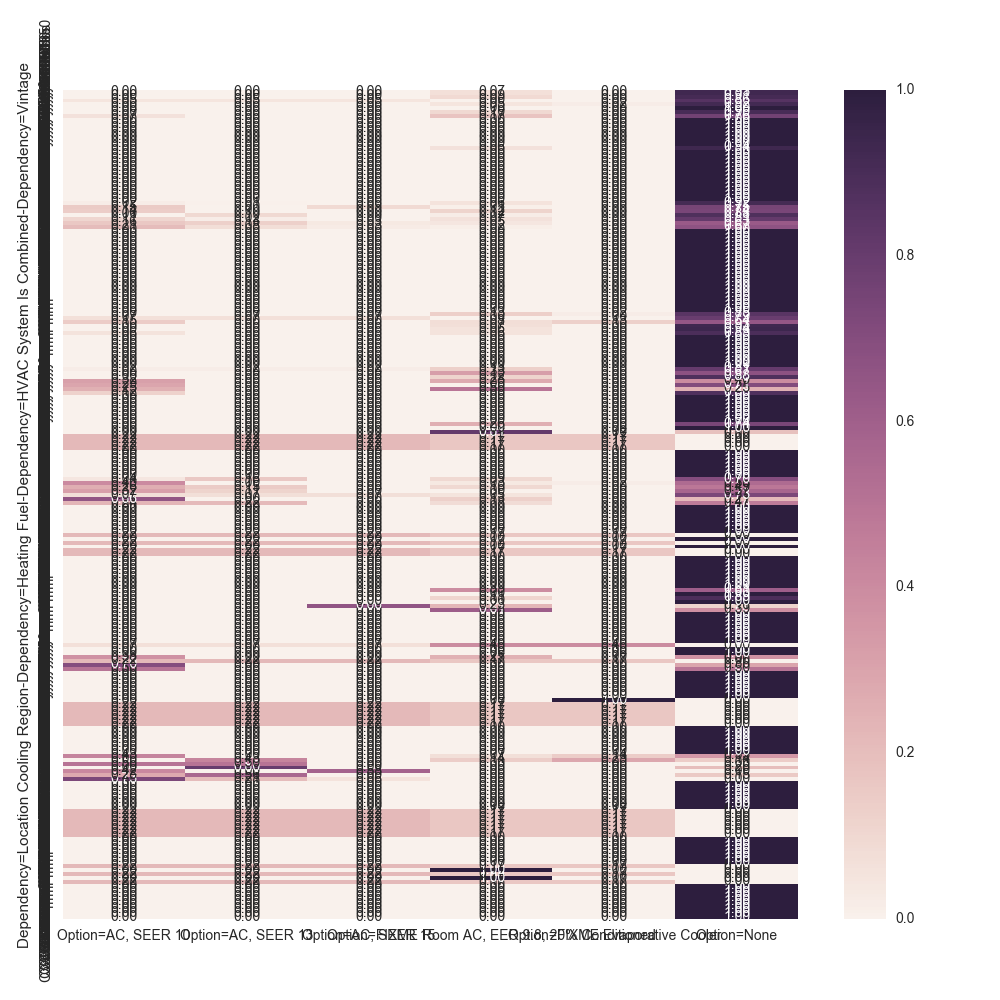
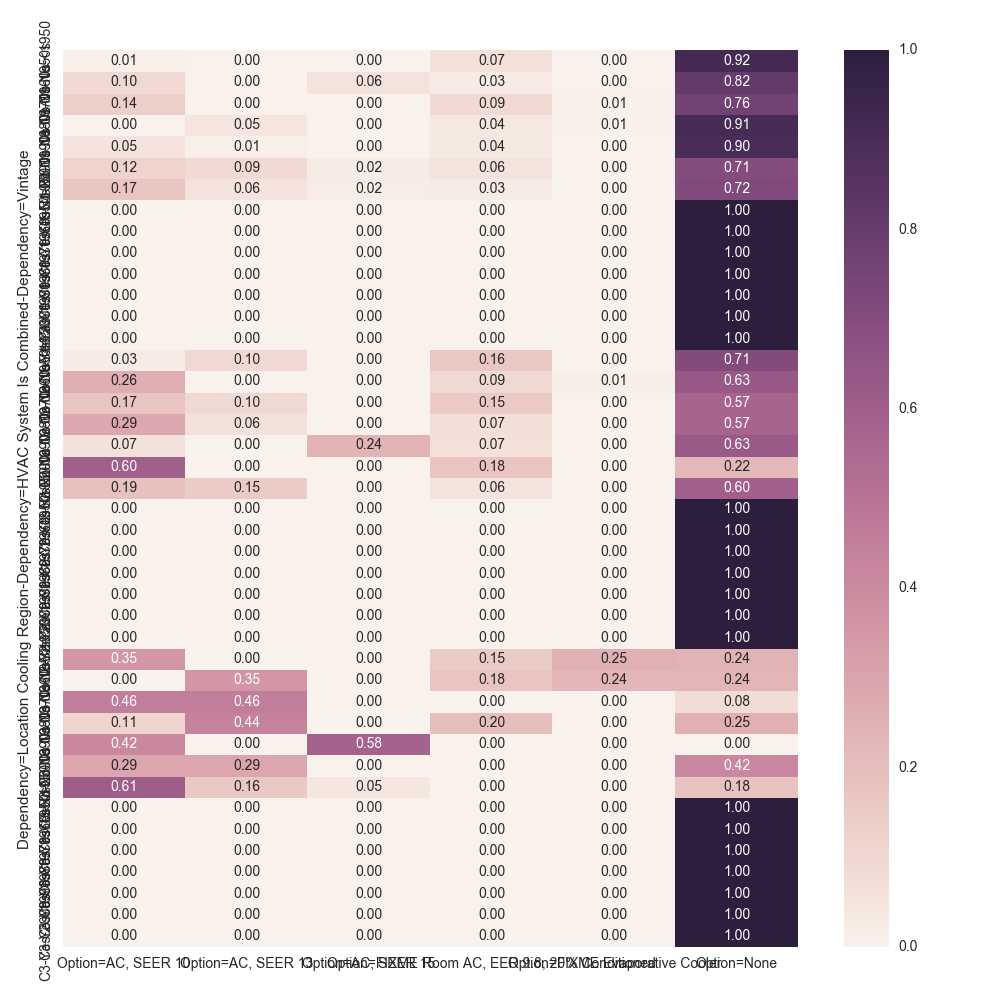
Removing Heating Fuel dependency from HVAC System Cooling.

diff --git a/data/rbsa/input.py b/data/rbsa/input.py
@@ -1069,11 +1069,11 @@ class Create_DFs():
         df = util.assign_hvac_system_is_combined(df, 'htg_and_clg')        
         df.loc[df['Dependency=HVAC System Is Combined']=='Yes', 'clg'] = 'None'
         df, cols = util.categories_to_columns(df, 'clg')
-        df = df.groupby(['Dependency=Location Cooling Region', 'Dependency=Vintage', 'Dependency=Heating Fuel', 'Dependency=HVAC System Is Combined'])
+        df = df.groupby(['Dependency=Location Cooling Region', 'Dependency=Vintage', 'Dependency=HVAC System Is Combined'])
         missing_groups = []
-        for group in itertools.product(*[['C1', 'C2', 'C3'], ['<1950', '1950s', '1960s', '1970s', '1980s', '1990s', '2000s'], ['Electricity', 'Fuel Oil', 'Natural Gas', 'Propane/LPG', 'Wood'], ['Yes', 'No']]):
+        for group in itertools.product(*[['C1', 'C2', 'C3'], ['<1950', '1950s', '1960s', '1970s', '1980s', '1990s', '2000s'], ['Yes', 'No']]):
             if not group in list(df.groups):
-                missing_groups.append(dict(zip(['Dependency=Location Cooling Region', 'Dependency=Vintage', 'Dependency=Heating Fuel', 'Dependency=HVAC System Is Combined'], group)))           
+                missing_groups.append(dict(zip(['Dependency=Location Cooling Region', 'Dependency=Vintage', 'Dependency=HVAC System Is Combined'], group)))           
         count = df.agg(['count']).ix[:, 0]
         weight = df.agg(['sum'])['Weight']
         df = util.sum_cols(df, cols)
@@ -1088,11 +1088,11 @@ class Create_DFs():
                 data = dict(group.items() + dict(zip(columns, [1.0/len(columns)] * len(columns))).items())
                 columns.append('None')
                 data['None'] = 0
-                df_new = pd.DataFrame(data=data, index=[0]).set_index(['Dependency=Location Cooling Region', 'Dependency=Vintage', 'Dependency=Heating Fuel', 'Dependency=HVAC System Is Combined'])
+                df_new = pd.DataFrame(data=data, index=[0]).set_index(['Dependency=Location Cooling Region', 'Dependency=Vintage', 'Dependency=HVAC System Is Combined'])
             else:
                 data = dict(group.items() + dict(zip(columns, [0] * len(columns))).items())
                 data['None'] = 1
-                df_new = pd.DataFrame(data=data, index=[0]).set_index(['Dependency=Location Cooling Region', 'Dependency=Vintage', 'Dependency=Heating Fuel', 'Dependency=HVAC System Is Combined'])
+                df_new = pd.DataFrame(data=data, index=[0]).set_index(['Dependency=Location Cooling Region', 'Dependency=Vintage', 'Dependency=HVAC System Is Combined'])
             df_new['Count'] = 0
             df_new['Weight'] = 0
             df = df.append(df_new)
@@ -1111,7 +1111,7 @@ class Create_DFs():
         df = df[['Option=AC, SEER 10', 'Option=AC, SEER 13', 'Option=AC, SEER 15', 'Option=FIXME Room AC, EER 9.8, 20% Conditioned', 'Option=FIXME Evaporative Cooler', 'Option=None', 'Count', 'Weight']]
         df = df.reset_index()
         df['Dependency=Vintage'] = pd.Categorical(df['Dependency=Vintage'], ['<1950', '1950s', '1960s', '1970s', '1980s', '1990s', '2000s'])
-        df = df.sort_values(by=['Dependency=Location Cooling Region', 'Dependency=Heating Fuel', 'Dependency=HVAC System Is Combined', 'Dependency=Vintage']).set_index(['Dependency=Location Cooling Region', 'Dependency=Heating Fuel', 'Dependency=HVAC System Is Combined', 'Dependency=Vintage'])
+        df = df.sort_values(by=['Dependency=Location Cooling Region', 'Dependency=HVAC System Is Combined', 'Dependency=Vintage']).set_index(['Dependency=Location Cooling Region', 'Dependency=HVAC System Is Combined', 'Dependency=Vintage'])
         return df
     
     def ducts(self):
